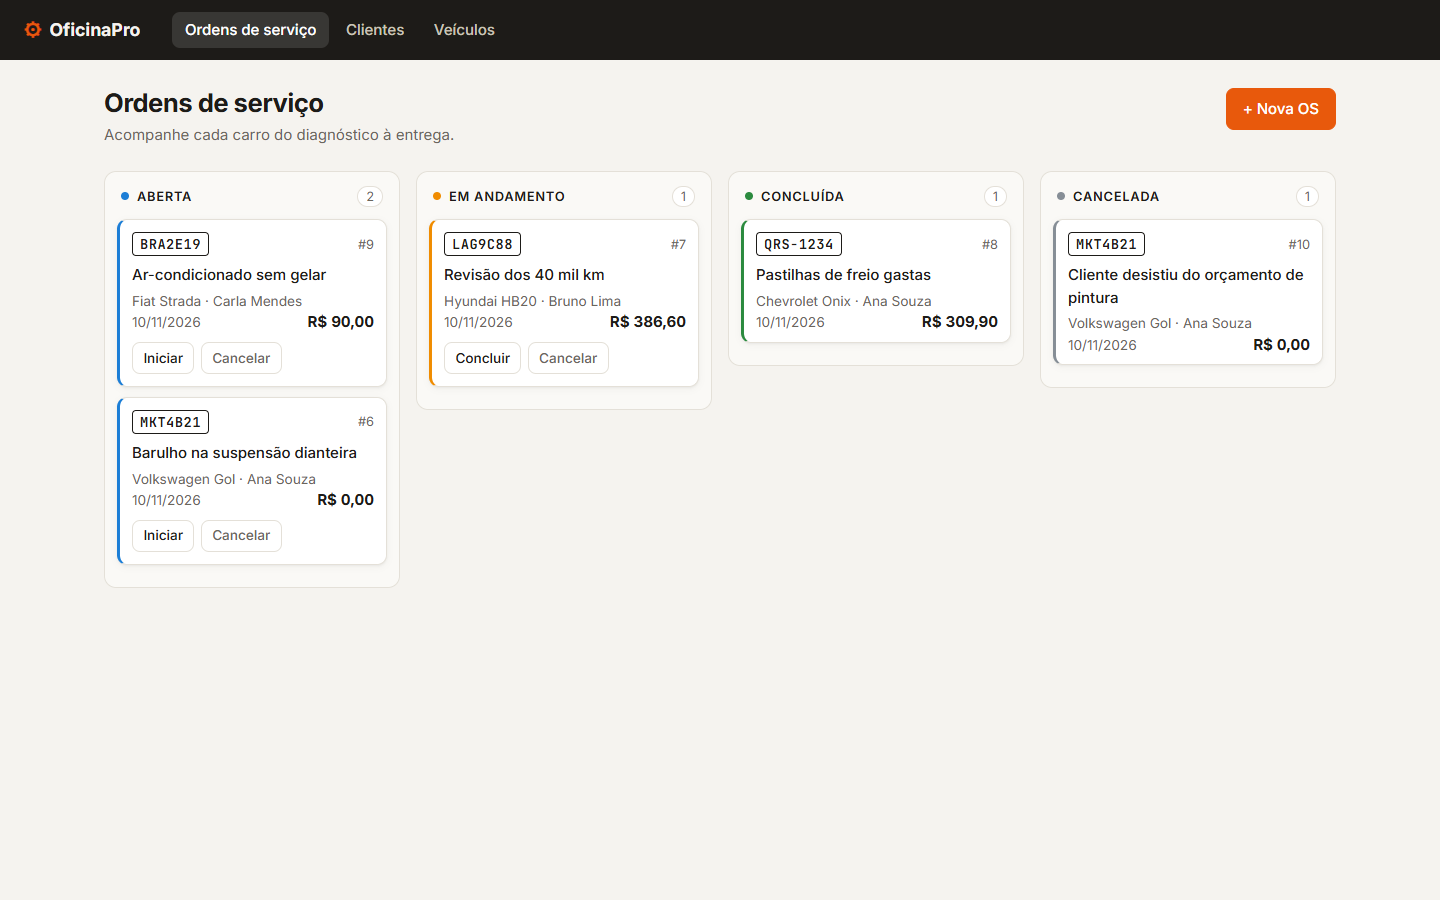
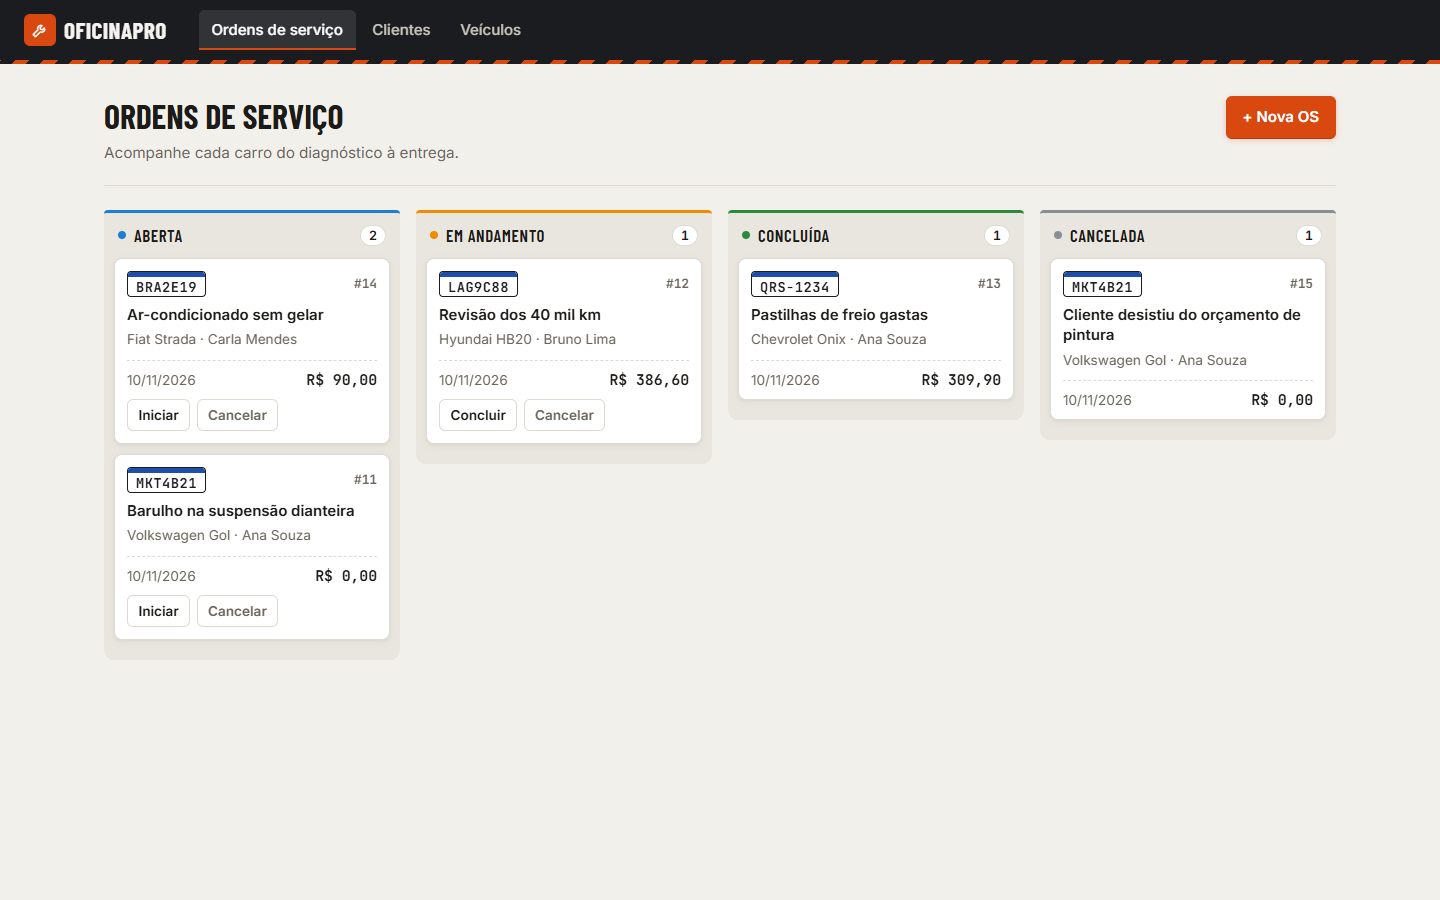
style: refina visual com identidade de oficina (grafite, laranja de seguranca, placa Mercosul)

Changed region(s): [[0.0, 0.0, 1.0, 0.7156], [0.875, 0.4356, 0.9062, 0.4667]]

diff --git a/frontend/src/styles.css b/frontend/src/styles.css
@@ -156,3 +156,95 @@ textarea { resize: vertical; }
   .tabela td[data-titulo]::before { content: attr(data-titulo); color: var(--texto-suave); font-size: 0.85rem; }
   .tabela td.acoes { justify-content: flex-end; padding-top: 8px; }
 }
+
+/* ===== Refinamento visual: "chão de oficina" =====
+   Grafite + laranja de segurança, títulos condensados de placa de sinalização,
+   placa Mercosul nos cards e faixa zebrada como assinatura. */
+:root {
+  --bg: #f2f0eb;
+  --borda: #dedad1;
+  --grafite: #1a1c1f;
+  --grafite-2: #26292e;
+  --primaria: #d9480f;          /* 4.9:1 com branco (AA) */
+  --primaria-escura: #b33c0c;
+  --mercosul: #1f4fa8;
+  --display: 'Barlow Condensed', 'Inter', system-ui, sans-serif;
+  --raio: 8px;
+  --zebra: repeating-linear-gradient(-45deg, var(--primaria) 0 10px, var(--grafite) 10px 20px);
+}
+h1 { font-family: var(--display); font-size: 2.1rem; font-weight: 700; letter-spacing: 0; text-transform: uppercase; }
+h2 { letter-spacing: 0.08em; }
+
+.topbar { background: var(--grafite); border-bottom: 0; box-shadow: 0 1px 0 rgb(0 0 0 / 30%); }
+.topbar::after { content: ''; position: absolute; left: 0; right: 0; bottom: -4px; height: 4px; background: var(--zebra); }
+.marca { font-family: var(--display); font-size: 1.45rem; letter-spacing: 0.02em; text-transform: uppercase; }
+.marca-icone { display: grid; place-items: center; width: 32px; height: 32px; border-radius: 6px; background: var(--primaria); color: #fff; }
+.nav a { min-height: 40px; display: inline-flex; align-items: center; }
+.nav a.ativo { background: rgb(255 255 255 / 10%); box-shadow: inset 0 -2px 0 var(--primaria); border-radius: 6px 6px 0 0; }
+.conteudo { padding-top: 36px; }
+.cabecalho { padding-bottom: 1.25rem; border-bottom: 1px solid var(--borda); }
+.sub { font-size: 0.95rem; }
+
+.btn { min-height: 40px; border-radius: 6px; font-weight: 600; }
+.btn-sm { min-height: 32px; }
+.btn-primario { box-shadow: 0 1px 0 var(--primaria-escura), 0 2px 6px rgb(217 72 15 / 25%); }
+.btn:focus-visible, .nav a:focus-visible, .card-link:focus-visible, .voltar:focus-visible { outline: 2px solid var(--primaria); outline-offset: 2px; }
+
+/* Kanban: colunas como baias da oficina */
+.coluna { background: #e9e6df; border: 0; border-top: 3px solid var(--cor); border-radius: 4px 4px 10px 10px; padding: 10px; }
+.coluna-topo h2 { font-family: var(--display); font-size: 1.05rem; letter-spacing: 0.04em; }
+.contador { font-weight: 600; font-variant-numeric: tabular-nums; color: var(--texto); }
+.coluna-vazia { border: 1.5px dashed #cdc8bd; border-radius: 8px; padding: 18px 10px; text-align: center; }
+.card-os { border-left: 1px solid var(--borda); border-radius: var(--raio); animation: entrar 0.22s cubic-bezier(0.2, 0.8, 0.2, 1) both; }
+.card-os:nth-child(3) { animation-delay: 30ms; } .card-os:nth-child(4) { animation-delay: 60ms; } .card-os:nth-child(n+5) { animation-delay: 90ms; }
+.card-os:hover { transform: translateY(-2px); border-color: #c9c3b7; box-shadow: 0 6px 18px rgb(26 28 31 / 10%); }
+.card-link { border-radius: var(--raio) var(--raio) 0 0; }
+.card-desc { font-weight: 600; line-height: 1.35; overflow-wrap: anywhere; }
+.card-link > .card-linha:last-child { margin-top: 10px; padding-top: 8px; border-top: 1px dashed var(--borda); }
+.valor { font-family: var(--mono); font-size: 0.92rem; }
+.os-num { font-family: var(--mono); font-weight: 600; }
+@keyframes entrar { from { opacity: 0; transform: translateY(6px); } }
+
+/* Placa Mercosul */
+.placa { position: relative; padding: 7px 8px 1px; border: 1.5px solid var(--grafite); border-radius: 4px; background: #fff; color: var(--grafite); line-height: 1.2; overflow: hidden; }
+.placa::before { content: ''; position: absolute; left: 0; right: 0; top: 0; height: 5px; background: var(--mercosul); }
+.placa-grande { padding: 12px 12px 3px; font-size: 1.3rem; }
+.placa-grande::before { height: 8px; }
+
+.badge { border-radius: 4px; text-transform: uppercase; letter-spacing: 0.05em; font-size: 0.7rem; padding: 3px 8px; }
+.badge-em_andamento { --cor: #b35c00; }   /* AA com texto branco */
+.badge-cancelada { --cor: #6b7178; }
+
+/* Tabelas e painéis */
+.tabela-wrap, .painel { border-radius: 10px; }
+.tabela th { font-size: 0.72rem; letter-spacing: 0.08em; background: #f4f2ed; }
+.tabela tbody tr { transition: background 0.12s; }
+.painel { border-top: 3px solid var(--grafite); }
+.total { border-top: 0; margin-top: 12px; padding: 14px 16px; background: var(--grafite); color: #fff; border-radius: 6px; }
+.total strong { font-family: var(--mono); }
+
+.modal { border-radius: 10px; border-top: 4px solid transparent; border-image: var(--zebra) 4 0 0 0 / 4px 0 0 0; }
+.modal-topo h2 { font-family: var(--display); font-size: 1.5rem; text-transform: uppercase; }
+.btn-icone { min-width: 40px; min-height: 40px; border-radius: 6px; }
+.btn-icone:hover { background: var(--superficie-2); color: var(--texto); }
+input, select, textarea { min-height: 42px; border-radius: 6px; border-color: #d3cec4; transition: border-color 0.15s; }
+input:hover, select:hover, textarea:hover { border-color: #b9b3a7; }
+
+@media (max-width: 720px) {
+  h1 { font-size: 1.75rem; }
+  .marca span:last-child { display: inline; }
+  .topbar { gap: 0.75rem; }
+  .nav a { padding: 0.45rem 0.6rem; font-size: 0.9rem; }
+  .btn-sm { min-height: 40px; }
+  .card-acoes .btn { flex: 1; justify-content: center; }
+}
+@media (max-width: 420px) {
+  .marca span:last-child { display: none; }
+}
+@media (prefers-reduced-motion: reduce) {
+  *, *::before, *::after { animation: none !important; transition: none !important; }
+}
+@media (max-width: 420px) {
+  .topbar { padding: 0 12px; gap: 0.5rem; }
+  .nav a { padding: 0.4rem 0.45rem; font-size: 0.84rem; }
+}

diff --git a/frontend/src/components/Layout.jsx b/frontend/src/components/Layout.jsx
@@ -11,7 +11,7 @@ export default function Layout() {
     <div className="app">
       <header className="topbar">
         <div className="marca">
-          <span className="marca-icone" aria-hidden="true">⚙</span>
+          <span className="marca-icone" aria-hidden="true"><svg width="18" height="18" viewBox="0 0 24 24" fill="none" stroke="currentColor" strokeWidth="2.2" strokeLinecap="round" strokeLinejoin="round"><path d="M14.7 6.3a4 4 0 0 0-5.4 5.4L3 18l3 3 6.3-6.3a4 4 0 0 0 5.4-5.4l-2.5 2.5-2.4-.6-.6-2.4z"/></svg></span>
           <span>OficinaPro</span>
         </div>
         <nav className="nav">

diff --git a/frontend/index.html b/frontend/index.html
@@ -6,7 +6,7 @@
     <title>OficinaPro</title>
     <link rel="preconnect" href="https://fonts.googleapis.com" />
     <link rel="preconnect" href="https://fonts.gstatic.com" crossorigin />
-    <link href="https://fonts.googleapis.com/css2?family=Inter:wght@400;500;600;700&family=JetBrains+Mono:wght@500;600&display=swap" rel="stylesheet" />
+    <link href="https://fonts.googleapis.com/css2?family=Barlow+Condensed:wght@600;700&family=Inter:wght@400;500;600;700&family=JetBrains+Mono:wght@500;600&display=swap" rel="stylesheet" />
   </head>
   <body>
     <div id="root"></div>
